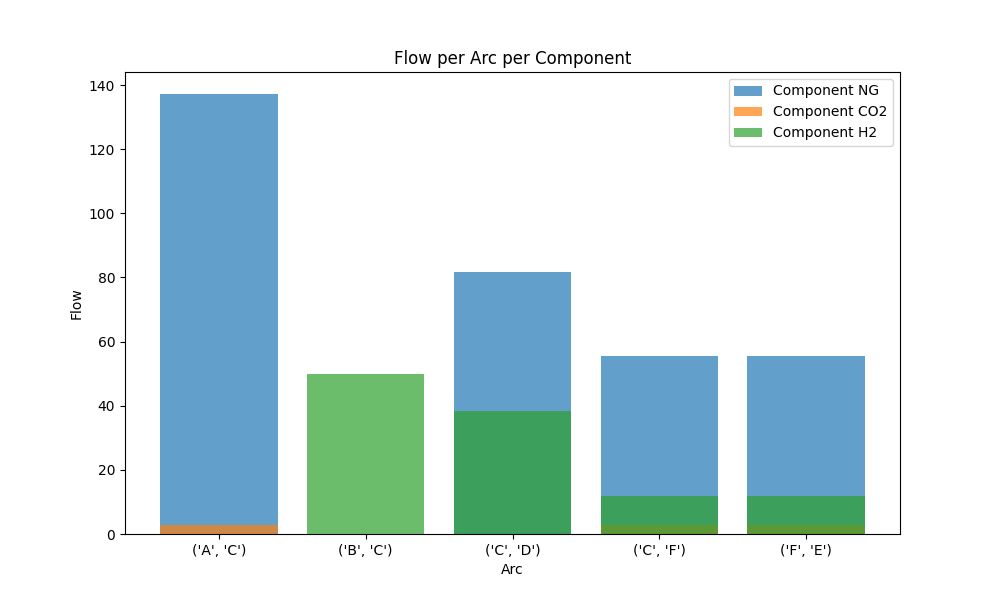
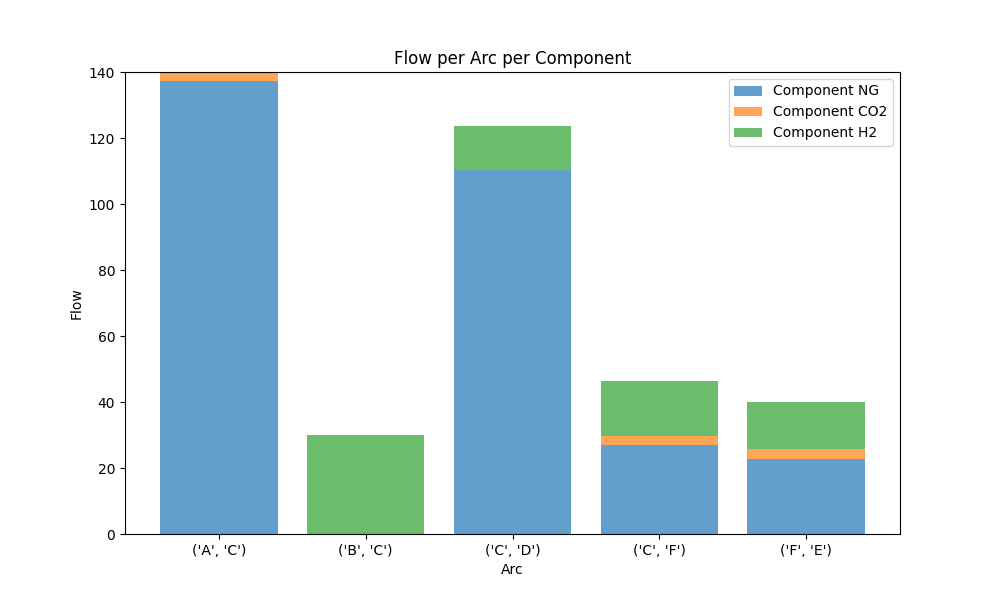
pressure done

diff --git a/base_model.py b/base_model.py
@@ -16,16 +16,34 @@ NUMBER_OF_CUTTING_PLANES_P_OUT = 10
 P_OUT_LOW = 4
 P_OUT_HIGH = 10
 
-# Cutting plane values
-p_in_values = np.linspace(P_IN_LOW, P_IN_HIGH, NUMBER_OF_CUTTING_PLANES_P_IN)
-p_out_values = np.linspace(P_OUT_LOW, P_OUT_HIGH, NUMBER_OF_CUTTING_PLANES_P_OUT)
-
-
-pairs = [
-    (p_in_values[i], p_out_values[j])
-    for i in range(NUMBER_OF_CUTTING_PLANES_P_IN)
-    for j in range(NUMBER_OF_CUTTING_PLANES_P_OUT) if p_in_values[i] > p_out_values[j]
+# Function to generate cutting plane pairs using the constants
+def generate_cutting_plane_pairs():
+    # Evenly spaced p_out
+    p_out_values = np.linspace(P_OUT_LOW, P_OUT_HIGH, NUMBER_OF_CUTTING_PLANES_P_OUT)
+    
+    # Function to skew p_in toward lower values (denser near p_out)
+    def skew_p_in(p_out, n_points=NUMBER_OF_CUTTING_PLANES_P_IN, low=None, high=P_IN_HIGH):
+        if low is None:
+            low = max(P_IN_LOW, p_out)  # ensure p_in >= p_out
+        t = np.linspace(0, 1, n_points)
+        t_skewed = np.sqrt(t)  # adjust exponent for more/less skew
+        return low + (high - low) * t_skewed
+    
+    # Create p_in values for each p_out
+    p_in_grid = [skew_p_in(p_out) for p_out in p_out_values]
+    
+    # Flatten into pairs (p_in, p_out), only take p_in > p_out
+    pairs = [
+        (p_in, p_out)
+        for p_out, p_in_list in zip(p_out_values, p_in_grid)
+        for p_in in p_in_list
+        if p_in > p_out
     ]
+    
+    return pairs
+
+# Usage
+pairs = generate_cutting_plane_pairs()
 
 NUMBER_OF_DENSITY_BOUNDS = 4
 RHO_LOW = 0.55
@@ -114,7 +132,12 @@ def create_base_model(network: networkx.Graph):
         model.H,
         model.N_m,
         initialize=demand_rule,
-        mutable=True
+    )
+
+    # Suppliers parameter
+    model.supplier = pyo.Param(
+        model.N_hg,
+        initialize={n: network.nodes[n].get('supplier', 'Unknown') for n in model.N_hg},
     )
 
     # Max flow (Big-M)
@@ -159,6 +182,11 @@ def create_base_model(network: networkx.Graph):
     # Minimum pressure at demand nodes
     model.P_min = pyo.Param(model.N_m, initialize={n: network.nodes[n].get('min_outlet_pressure', 0) for n in model.N_m})
 
+    # Fuel consumption parameters for compression nodes
+    model.K_out_pipe = pyo.Param(model.N_gamma, initialize={n: network.nodes[n].get('compression_constants', {}).get('K_out_pipe', 0) for n in model.N_gamma})
+    model.K_into_pipe = pyo.Param(model.N_gamma, initialize={n: network.nodes[n].get('compression_constants', {}).get('K_into_pipe', 0) for n in model.N_gamma})
+    model.K_flow = pyo.Param(model.N_gamma, initialize={n: network.nodes[n].get('compression_constants', {}).get('K_flow', 0) for n in model.N_gamma})
+
     # -----------------------------
     # Variables
     #-----------------------------
@@ -167,6 +195,7 @@ def create_base_model(network: networkx.Graph):
     model.p_out = pyo.Var(model.A, within=pyo.NonNegativeReals, initialize=0)  # Outlet pressure on arc a
     model.theta = pyo.Var(model.A, model.Z_theta, within=pyo.Binary, initialize=0)  # Binary variables for pressure bounds
     model.v = pyo.Var(model.N_s, model.Z_v, within=pyo.Binary, initialize=0)  # Binary variables for homogeneous splitting
+    model.w = pyo.Var(model.N_gamma, model.C, within=pyo.NonNegativeReals, initialize=0)  # Continuous variables for compression fuel consumption
     
     #-----------------------------
     # Objective Function
@@ -204,11 +233,9 @@ def create_base_model(network: networkx.Graph):
     model.component_ratio = pyo.Constraint(model.N_hg, model.C, rule=component_ratio_rule)
 
     # Constraint 3: Demand satisfaction constraint for production nodes
-    def demand_satisfaction_production_rule(model, n, h):
-        if n in model.N_hg:
-            return sum(model.f[a, c] for a in model.A_n_minus[n] for c in model.C) >= model.D[h,n]
-        return pyo.Constraint.Skip
-    model.demand_satisfaction_production = pyo.Constraint(model.N_m, model.H, rule=demand_satisfaction_production_rule)
+    def demand_satisfaction_production_rule(model, h):
+        return sum(model.f[a, c] for c in model.C for n_prime in model.N_hg if model.supplier[n_prime] == h for a in model.A_n_minus[n_prime] ) >= sum(model.D[h,n] for n in model.N_m)
+    model.demand_satisfaction_production = pyo.Constraint( model.H, rule=demand_satisfaction_production_rule)
 
     # Constraint 4: Demand satisfaction constraint for market nodes
     def demand_satisfaction_market_rule(model, n):
@@ -220,7 +247,7 @@ def create_base_model(network: networkx.Graph):
     # Constraint 5: Flow balance constraint for intermediate nodes
     def flow_balance_rule(model, n, c):
         # Applies to nodes that are not production, market, or compression nodes
-        intermediate_nodes = model.N - model.N_hg - model.N_m #- model.N_gamma
+        intermediate_nodes = model.N - model.N_hg - model.N_m - model.N_gamma
         if n in intermediate_nodes:
             inflow = sum(model.f[a, c] for a in model.A_n_plus[n])
             outflow = sum(model.f[a, c] for a in model.A_n_minus[n])
@@ -230,7 +257,7 @@ def create_base_model(network: networkx.Graph):
     model.flow_balance = pyo.Constraint(model.N, model.C, rule=flow_balance_rule)
 
     # ________________
-    # Pressure constraints
+    # Weymouth constraints
     # ________________
 
     def SOS1_theta(model, a1, a2):
@@ -269,6 +296,9 @@ def create_base_model(network: networkx.Graph):
 
     model.weymouth_cutting_plane = pyo.Constraint(model.A, model.Z_theta, model.L, rule=weymouth_cutting_plane_rule)
 
+    # ________________
+    # Other pressure constraints
+    # ________________
 
     #Node pressure relationship
     def node_pressure_rule(model, n, a_into_node_1, a_into_node_2, a_out_node_1, a_out_node_2):
@@ -303,7 +333,30 @@ def create_base_model(network: networkx.Graph):
         ((n, a) for n in model.N_m for a in model.A_n_plus[n]),
         rule=min_pressure_demand_rule)
     
-    
+    # Compression fuel consumption constraints
+    def fuel_consumption_rule(model, n,c):
+        if n in model.N_gamma:
+            # For each arc into the compression node, compute fuel consumption
+            a = model.A_n_minus[n].first()
+            a_prime = model.A_n_plus[n].first()
+            return model.w[n, c] == model.K_out_pipe[n] * model.p_in[a] - model.K_into_pipe[n] * model.p_out[a_prime] + model.K_flow[n] * model.f[a,c]
+        return pyo.Constraint.Skip
+
+    model.fuel_consumption = pyo.Constraint(model.N_gamma, model.C, rule=fuel_consumption_rule)
+
+    def fuel_flow_balance_rule(model, n,c):
+        if n in model.N_gamma:
+            return sum(model.f[a, c] for a in model.A_n_minus[n]) == sum(model.f[a, c] for a in model.A_n_plus[n]) -  model.w[n, c] 
+        return pyo.Constraint.Skip
+
+    model.fuel_flow_balance = pyo.Constraint(model.N_gamma, model.C, rule=fuel_flow_balance_rule)
+
+    def max_compression_rule(model, n):
+        if n in model.N_gamma:
+            a = model.A_n_minus[n].first()
+            return model.p_in[a] <= network.nodes[n]['compression_max']
+        return pyo.Constraint.Skip
+
 
     #------------------------------
     # Expressions
@@ -324,7 +377,6 @@ def create_base_model(network: networkx.Graph):
     return model
 
 def solve_model(model):
-    print(model.pprint())  # Print the model to check its structure
     solver = pyo.SolverFactory('gurobi')  # You can choose a different solver if needed
     solver.options['OutputFlag'] = 1  # ensures full output
     solver.options['TimeLimit'] = 30  # optional
@@ -338,10 +390,13 @@ def plot_flow_per_arc(model):
     fig, ax = plt.subplots(figsize=(10, 6))
 
     print("Arcs:", arcs)
+    bottom = [0] * len(arcs)
+    
     for c in components:
         flows = [pyo.value(model.f[a, c]) for a in model.A]
         print(f"Flows for component {c}:", flows)
-        ax.bar(arcs, flows, alpha=0.7, label=f'Component {c}')
+        ax.bar(arcs, flows, bottom=bottom, alpha=0.7, label=f'Component {c}')
+        bottom = [bottom[i] + flows[i] for i in range(len(arcs))]
 
     ax.set_xlabel("Arc")
     ax.set_ylabel("Flow")

diff --git a/network.py b/network.py
@@ -111,13 +111,19 @@ def plot_network(G):
 def example_graph():
     G = nx.DiGraph()
 
+    compression_contants = {
+        "K_out_pipe" : 0.5,
+        "K_into_pipe"  : 0.5,
+        "K_flow" : 0.2,
+    }
+
     nodes = {
         "A": dict(max_flow=200, supply_capacity=140, component_ratio={"NG": 0.98, "CO2": 0.02, "H2": 0.00}, generation_cost=0.5, supplier="Shell"),
         "B": dict(max_flow=200, supply_capacity=50, component_ratio={"NG": 0.00, "CO2": 0.00, "H2": 1.00}, generation_cost=1.2, supplier="Equinor"),
         "C": dict(max_flow=200, split_homogeneous=True),
-        "D": dict(max_flow=200, demand={"Shell": 80, "Equinor": 40}, price=1.1, min_outlet_pressure=5),
+        "D": dict(max_flow=200, demand={"Shell": 80, "Equinor": 10}, price=1.1, min_outlet_pressure=5),
         "E": dict(max_flow=200, demand={"Shell": 20, "Equinor": 20}, price=1.3, min_outlet_pressure=5), 
-        "F": dict(max_flow=200, compression_max=30),
+        "F": dict(max_flow=200, compression_max=8, compression_constants=compression_contants),
     }
 
     edges = [
